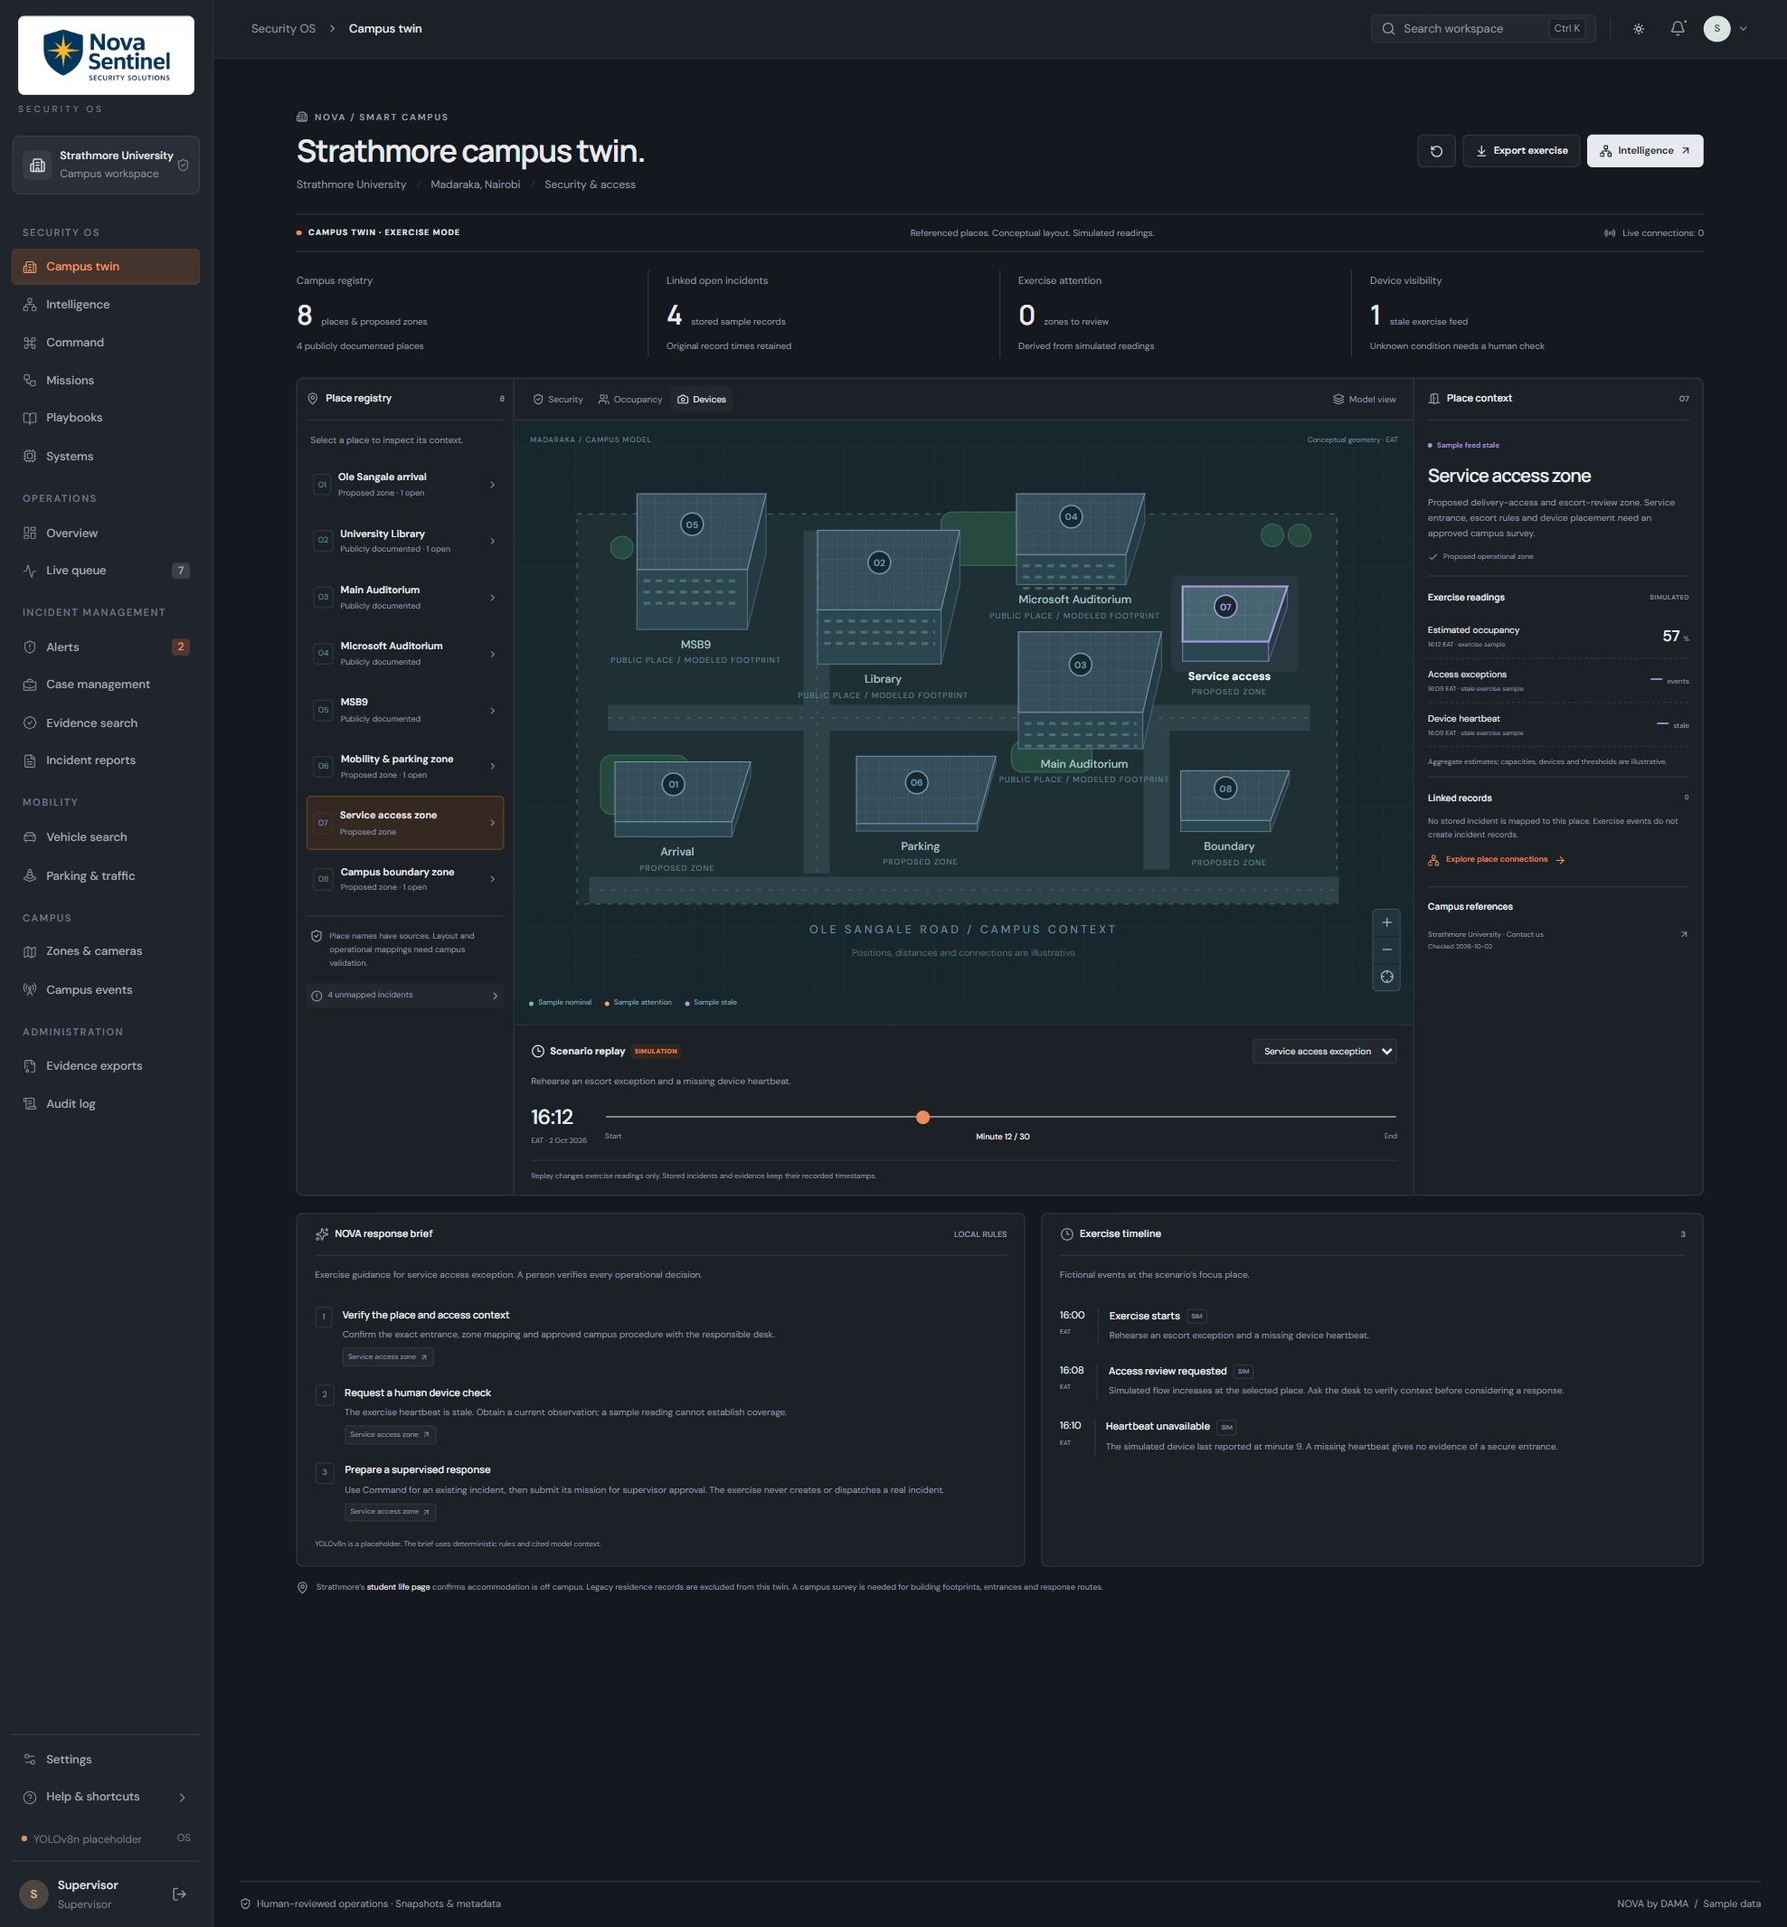
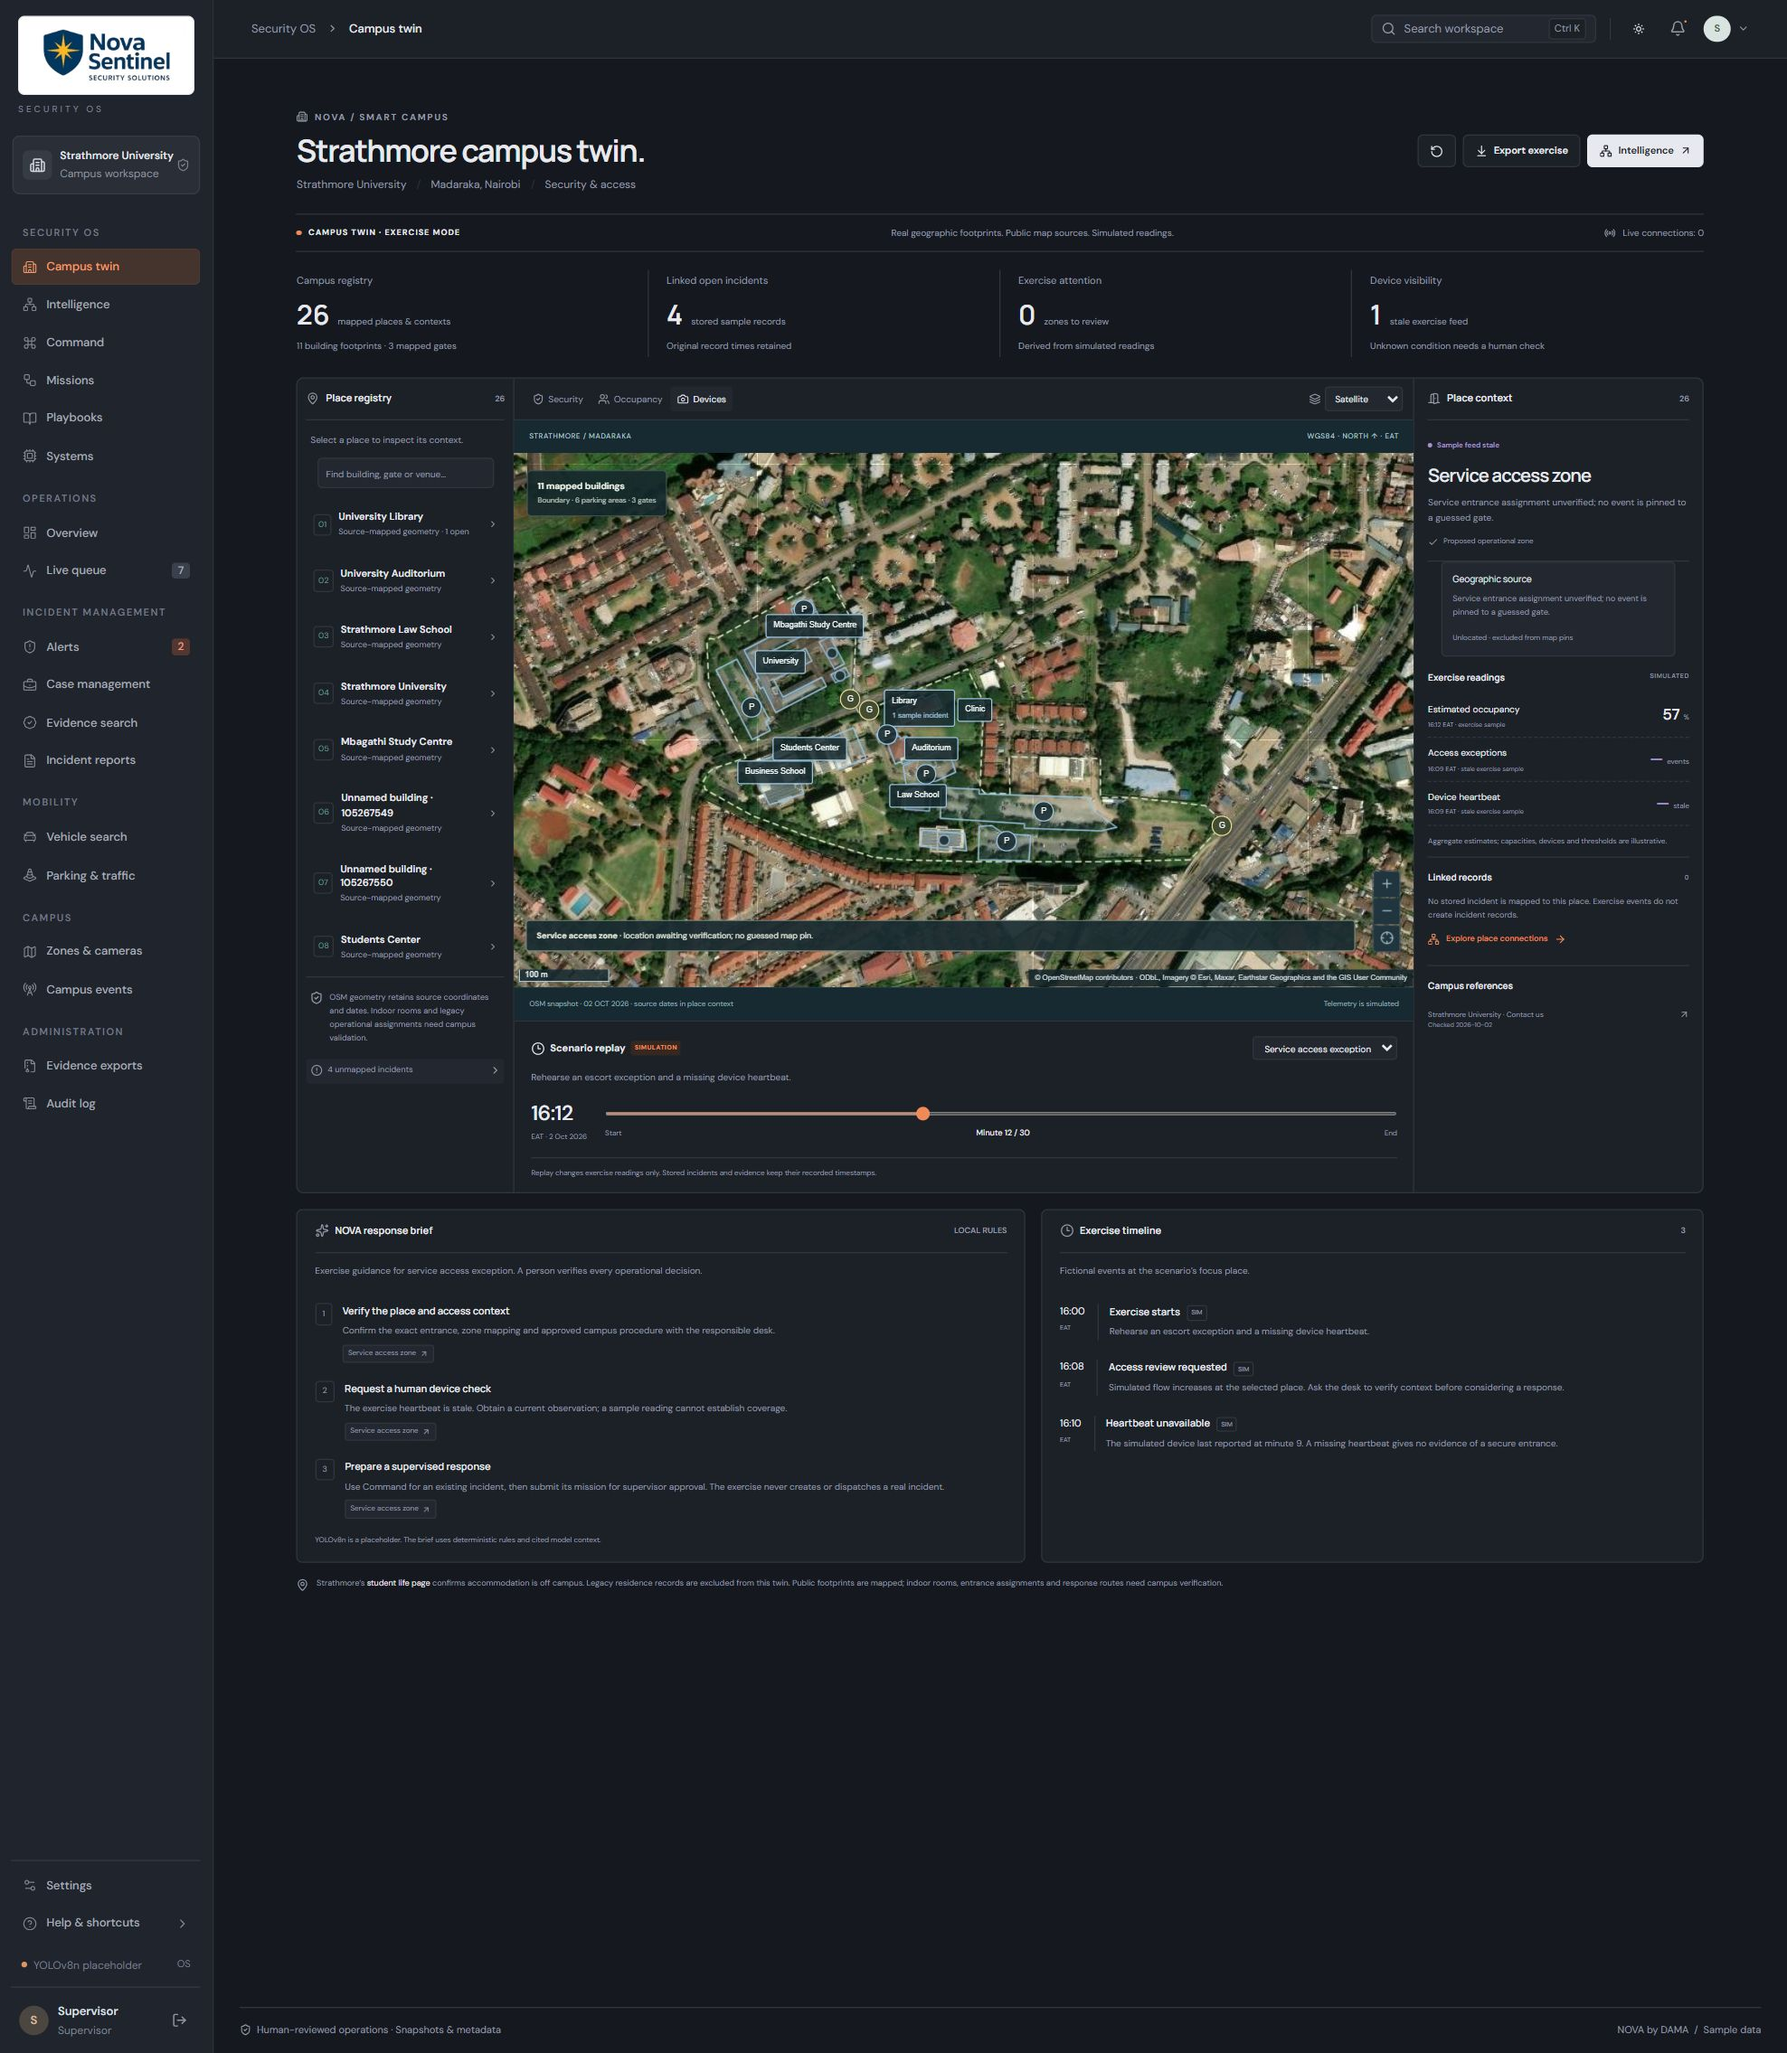
docs(campus): document geographic sources and review the real map

diff --git a/docs/11-strathmore-campus-twin.md b/docs/11-strathmore-campus-twin.md
@@ -1,6 +1,6 @@
 # Strathmore campus security twin
 
-The `/campus` workspace models a security and access exercise at Strathmore University’s Madaraka campus. It connects a public place registry, conceptual spatial model, simulated telemetry and existing role-visible incident/evidence/response records. It is a prototype digital twin: a surveyed campus layout and live integrations are still needed to represent the physical campus accurately.
+The `/campus` workspace models a security and access exercise at Strathmore University’s Madaraka campus. It connects a public place registry, an actual geographic map, simulated telemetry and existing role-visible incident/evidence/response records. Its WGS84 coordinates and building shapes come from a dated OpenStreetMap extract. A current campus survey, indoor plans and live integrations are still needed for survey-grade precision and operational deployment.
 
 ## Public grounding
 
@@ -14,11 +14,21 @@ References were read on **2 October 2026**. Only the facts below are supported b
 | [University media session report](https://strathmore.edu/news-articles/the-power-of-media-from-campus-to-coverage-o/) | MSB9 is a documented teaching venue | Does not establish a building footprint or expand the MSB abbreviation |
 | [University student life page](https://strathmore.edu/student-life/) | Strathmore has no accommodation facilities within the university and recommends external hostels | Legacy “Residence Block B” demo records cannot be represented as an on-campus building |
 
-`shared/campus-reference.js` contains eight stable place IDs: four publicly documented places (library, the two auditoriums and MSB9), plus four proposed operational zones (arrival, mobility/parking, service access and boundary). All x/y coordinates, dimensions, heights, roads, landscaping, responsibilities, thresholds, capacities and devices are conceptual. The diagram has no geographic coordinate system, scale or verified compass orientation.
+`shared/campus-geography.js` contains a reviewed OpenStreetMap extract retrieved on **2 October 2026**, in **EPSG:4326 / WGS84** (longitude, latitude). Its 11 building polygons, 6 parking polygons, campus outline, surrounding roads and 3 gate points retain their source coordinates and per-feature version/edit dates. The boundary is OSM way 105267819. No footprints are replaced with generic rectangles; no heights or indoor coordinates are invented.
+
+Mapped names include Strathmore University Library, University Auditorium, Law School, Business School, Students Center, University Clinic, Mbagathi Study Centre and the main university complex. Three building footprints have no source name and remain explicitly unnamed. The map preserves OSM naming provenance rather than guessing that the university complex is MSB or assigning the Microsoft Auditorium to an unverified building. The Phase II parking label corrects OSM’s spelling typo for display; the original name remains in the geographic source.
+
+`shared/campus-reference.js` now contains 26 entries: 21 map-backed places/contexts and 5 unlocated venues or operational zones. The eight existing IDs remain stable. MSB9, Microsoft Auditorium, arrival, legacy Parking A and service access have no invented map pins. Mapped gates and parking areas are independent source objects; old Main Gate / Side Gate labels are not arbitrarily attached to them. A perimeter record has campus-level boundary context, never an exact North Fence position.
+
+The interactive Leaflet map supports pan, zoom, a metric scale, north-up orientation, source-linked selection and Satellite / Streets / Footprints basemaps. Satellite imagery is Esri World Imagery; streets use OpenStreetMap tiles. The vector dataset is bundled and works without external imagery. A tile error explains the fallback. No tile prefetch, bulk download, geolocation permission or map API key is used. Only the two image origins are added to the existing CSP; scripts and connections remain same-origin. Leaflet loads in a separate map chunk.
+
+**Attribution:** geographic data © OpenStreetMap contributors under [ODbL 1.0](https://www.openstreetmap.org/copyright). The map and exported dataset retain attribution and license metadata. Satellite imagery is attributed to Esri, Maxar, Earthstar Geographics and the GIS User Community. The geometry is a community map snapshot, not a current legal boundary or university-approved survey.
+
+To refresh deliberately, obtain the [same bounded public OSM JSON extract](https://www.openstreetmap.org/api/0.6/map.json?bbox=36.8115,-1.3116,36.8175,-1.3079), inspect changes and run `node scripts/import-campus-geography.mjs <osm-map.json>`. The importer keeps campus-contained footprints, mapped parking, known surrounding roads and reviewed gate IDs. Update the retrieval date and counts when reviewing a new snapshot; the importer never runs in the browser.
 
 ## Record mappings and intelligence
 
-Ten object types now include `campus-place` and `campus-source`. `references` edges cite a public source; their basis explicitly distinguishes the supported place name from modeled geometry. `anchored-to` edges use a configured exact location alias after trimming, whitespace normalization and case normalization. There is no substring/fuzzy geolocation. Similar labels, industrial API seed labels, generic admin/lecture/cafeteria places and residence labels remain unmapped. Composite case locations are not silently split or relocated.
+Ten object types now include `campus-place` and `campus-source`. `references` edges cite a public source; their basis distinguishes geographic sources, place identity and assumed operational assignments. `anchored-to` edges use a configured exact location alias after trimming, whitespace normalization and case normalization. There is no substring/fuzzy geolocation. Similar labels, industrial API seed labels, generic admin/lecture/cafeteria places and residence labels remain unmapped. Composite case locations are not silently split or relocated.
 
 The existing seed and persisted records are preserved, including their legacy IDs, camera IDs, snapshots and timestamps. A configured mapping is a design assumption needing campus approval. It does not prove a real incident occurred at Strathmore. Unmapped incidents can still be inspected in Intelligence and get a campus-location verification gap. Assessments and missions map through their explicit incident ID when that incident has a place mapping; their existing ownership and role rules apply.
 
@@ -43,12 +53,12 @@ The response brief uses local deterministic rules. It distinguishes exercise con
 
 The browser projects each scrub locally from the current graph instead of issuing a network request for every slider event. Operational updates refresh the graph. Account, role and session changes remount the authenticated workspace and clear the prior account’s data and replay state. The replay scenario and place have URL context; the minute is ephemeral and resets to 12 on a new session or scenario.
 
-Export exercise generates a local JSON file with the complete exercise, source references, conceptual geometry flags, connector status, selected-place records, verification gaps and all cited context records. `sampleData: true` stays explicit. It is a review artifact, not immutable audit evidence.
+Export exercise generates a local JSON file with the complete exercise, source references, the complete geographic dataset with attribution, per-feature edit dates and unlocated-place flags, connector status, selected-place records, verification gaps and all cited context records. `sampleData: true` stays explicit. It is a review artifact, not immutable audit evidence.
 
 ## Verification and integration path
 
 `npm run test:campus-twin` verifies source coverage, exact aliases, unknown/residence exclusions, deterministic readings, immutable records, bounded replay, stale telemetry and source-cited campus context. `test:intelligence` exercises the authenticated endpoint, guard filtering, malformed/repeated queries and browser/API parity. `test:account-boundary` mounts the actual twin and verifies keyboard selection, scenario changes, stale state, export contents and replay reset after account switching. Existing operations, API, Security OS, resilience, lint, build and dependency checks remain required.
 
-Browser review covers place selection, source-cited campus connections, replay, device/occupancy layers, plan/model view and narrow layout without horizontal page overflow. Review images are stored in `design/review/campus-twin-workspace.jpg` and `design/review/campus-twin-service.jpg`. JSON export contents are verified in the React test.
+Browser review covers place selection, source-cited campus connections, replay, device/occupancy layers, satellite/street/footprint views, source-linked building selection, place search and narrow layout without horizontal page overflow. Review images are stored in `design/review/campus-twin-workspace.jpg` and `design/review/campus-twin-service.jpg`. JSON export contents are verified in the React test.
 
-To connect a real campus: first approve an authoritative asset/entrance survey and stable place IDs; then validate access policies and response procedures with campus security; then connect timestamped aggregate vision metadata, access-event adapters and device heartbeats with authentication, retention and health checks. Maintain source provenance, separate stale from nominal observations, and retain human approval for consequential response. Live ingress, campus SSO, surveyed geography and shared production storage are outside this release.
+To connect a real campus: first approve an authoritative asset/entrance survey and stable place IDs; then validate access policies and response procedures with campus security; then connect timestamped aggregate vision metadata, access-event adapters and device heartbeats with authentication, retention and health checks. Maintain source provenance, separate stale from nominal observations, and retain human approval for consequential response. Live ingress, campus SSO, survey-grade and indoor geography, and shared production storage are outside this release.

diff --git a/README.md b/README.md
@@ -1,6 +1,6 @@
 # NOVA Security OS
 
-NOVA is a campus security operating workspace for DAMA LTD's Strathmore-facing workflow. Campus Twin grounds security exercises in publicly documented Strathmore places, with conceptual geometry and clearly simulated access, occupancy and device readings. Intelligence connects campus references, places, incidents, evidence, cameras, locations, teams, cases, assessments and missions in an explorable graph with source-cited queries. Command assembles incident records and annotated vision evidence, matches a response playbook, and prepares a mission for supervisor approval. Missions track human-led steps and recorded outcomes alongside cases, evidence search, reports, and shift handover.
+NOVA is a campus security operating workspace for DAMA LTD's Strathmore-facing workflow. Campus Twin grounds security exercises in publicly documented Strathmore places, with actual OpenStreetMap building footprints, satellite/street basemaps and clearly simulated access, occupancy and device readings. Intelligence connects campus references, places, incidents, evidence, cameras, locations, teams, cases, assessments and missions in an explorable graph with source-cited queries. Command assembles incident records and annotated vision evidence, matches a response playbook, and prepares a mission for supervisor approval. Missions track human-led steps and recorded outcomes alongside cases, evidence search, reports, and shift handover.
 
 The vision foundation is **YOLOv8n**, currently a **placeholder**. It reads labeled sample metadata; there is no model inference, model download, cloud model, or live camera ingestion. See [Security OS workflows and adapter contract](docs/09-security-os.md).
 
@@ -11,7 +11,7 @@ The product is demo-safe by design. It uses still snapshots plus metadata only, 
 - Redesigned operator workspace with local login and role-gated routes
 - Command, Missions, Playbooks, and Systems with source-linked assessments and durable approval/outcome records
 - Intelligence as the default landing: entity graph, evidence/timeline exploration, verification gaps and source-cited local queries. See [intelligence engine](docs/10-intelligence-engine.md).
-- Campus Twin: sourced place registry, conceptual campus model, four replayable security/access exercises and source-linked response guidance. See [campus twin](docs/11-strathmore-campus-twin.md).
+- Campus Twin: geographic place registry, sourced campus footprints and satellite/street/footprint views, four replayable security/access exercises and source-linked response guidance. See [campus twin](docs/11-strathmore-campus-twin.md).
 - Working local incident acknowledgement, case creation, reports, filters, and downloads; sample operational data
 - Default build mode uses in-browser mock data
 - Optional Express API with account-backed sessions, server permissions, CSRF protection and atomic local storage
